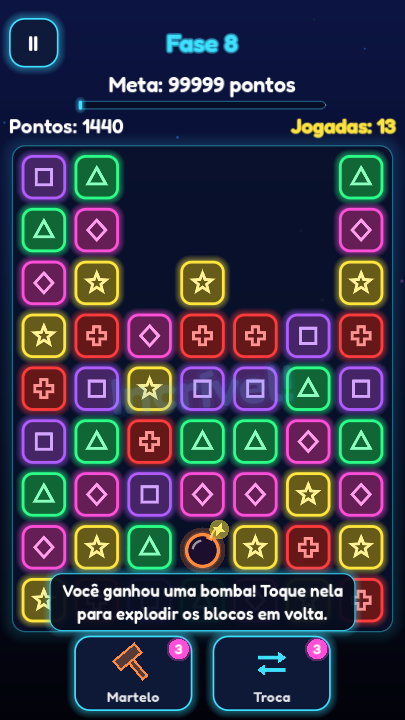
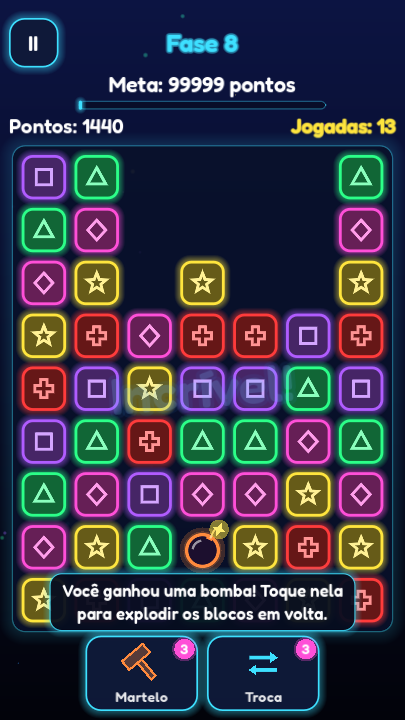
Botão Embaralhar quando o tabuleiro trava
Aparece entre o Martelo e a Troca só quando não há jogadas; embaralha
de graça, sem gastar poder, e some em seguida. Teste de fumaça cobre o
botão (aparece, embaralha, não gasta poder, ignora toque se destravado).

diff --git a/README.md b/README.md
@@ -32,8 +32,9 @@ antes de acabarem as jogadas.
   - **Martelo**: destrói um bloco à escolha (50 pontos; numa bomba, ela explode).
   - **Troca**: troca dois blocos quaisquer de lugar.
   Começa com 3 de cada e ganha +1 de cada a cada 21 estrelas conquistadas. O saldo fica no save.
-- **Sem jogadas?** A fase não acaba: com poderes, o jogo pede para usar o Martelo ou a Troca;
-  sem poderes, o tabuleiro é embaralhado de graça.
+- **Sem jogadas?** A fase não acaba: com poderes, o jogador pode usar o Martelo ou a Troca, ou
+  tocar em **Embaralhar** (grátis, só aparece com o tabuleiro travado); sem poderes, o tabuleiro
+  é embaralhado automaticamente.
 - **Bônus de vitória**: cada jogada que sobrou estoura um bloco e vale +100 pontos.
 - Tocar em um bloco isolado não gasta jogada. Se você ficar parado, o jogo mostra uma dica.
 - Vença com jogadas sobrando para ganhar até 3 estrelas: 2 estrelas com 20% das jogadas sobrando e 3 com 40%.
